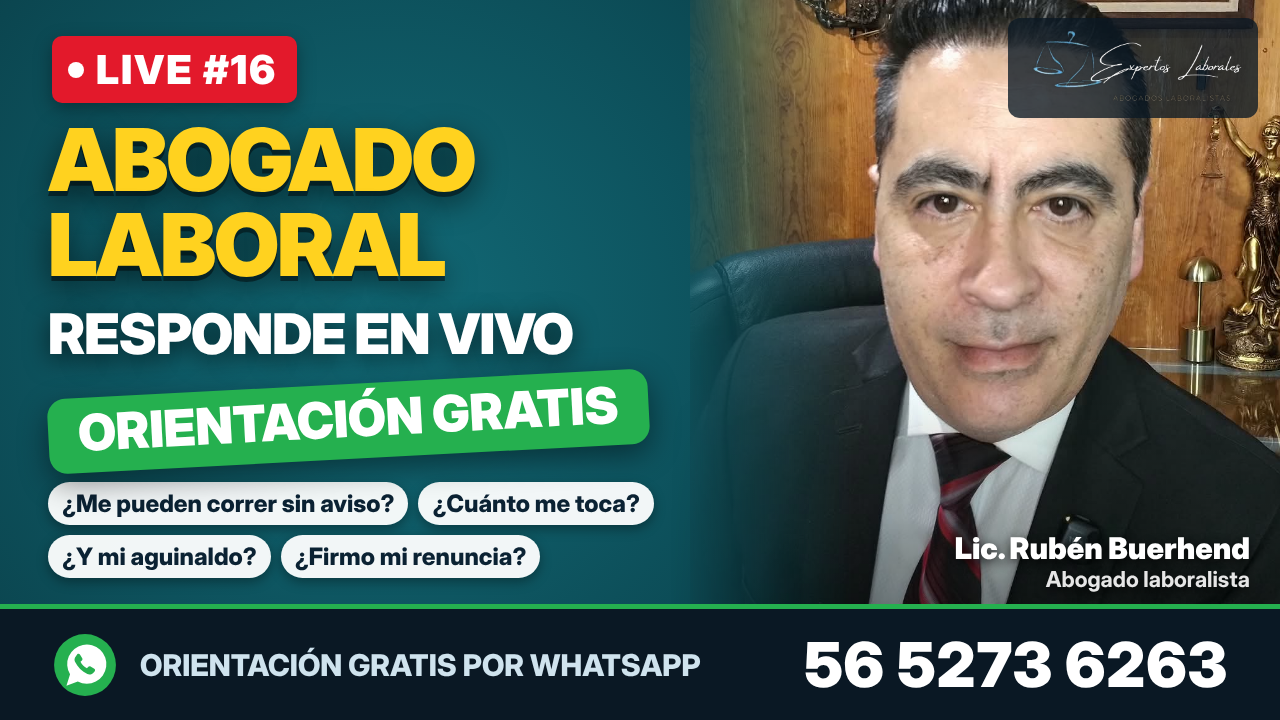
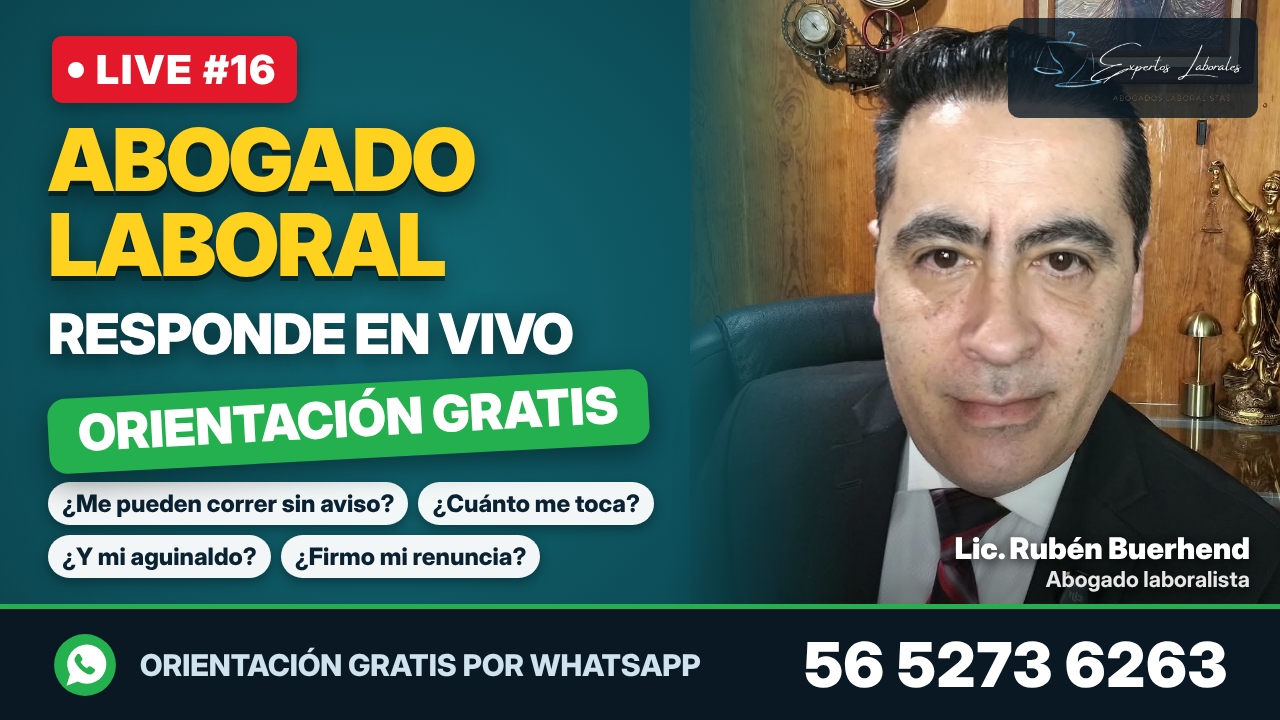
LIVE #16: foto un poco más abajo para no cortar el cabello
Claude-Session: https://claude.ai/code/session_01C3deJav44xscTHSyeunJhm

Changed region(s): [[0.5312, 0.0, 1.0, 0.8556]]

diff --git a/marketing/miniaturas/generar_serie_lives.js b/marketing/miniaturas/generar_serie_lives.js
@@ -11,7 +11,7 @@ const FOTOS={
   gris:{src:'../fotos/ruben_selfie_traje_gris.jpg',w:744,l:-26,t:-264},
   gris2:{src:'../fotos/ruben_selfie_traje_gris2.jpg',w:744,l:10,t:-250},
   lila:{src:'../fotos/ruben_selfie_corbata_lila.jpg',w:744,l:-20,t:-250},
-  roja:{src:'../fotos/ruben_selfie_corbata_roja.jpg',w:744,l:20,t:-230},
+  roja:{src:'../fotos/ruben_selfie_corbata_roja.jpg',w:744,l:20,t:-175},
   selfie:{src:'../fotos/ruben_selfie_cerca_derecha.jpg',w:832,l:-192,t:-264,tapaDerecha:true},
 };
 const COLORES=[['#1f4e6b','#143650','#0b2233'],['#7a1a22','#4a0d14','#24060a'],['#17704a','#0e4a31','#062417'],['#5b3391','#3a1f63','#1b0d31'],['#b85a12','#7a3a0a','#331804'],['#126b78','#0b4650','#042226'],['#3a3a3a','#1f1f1f','#0a0a0a'],['#6b1838','#450f24','#1f0610'],['#1e2f6b','#121d47','#070c22']];
